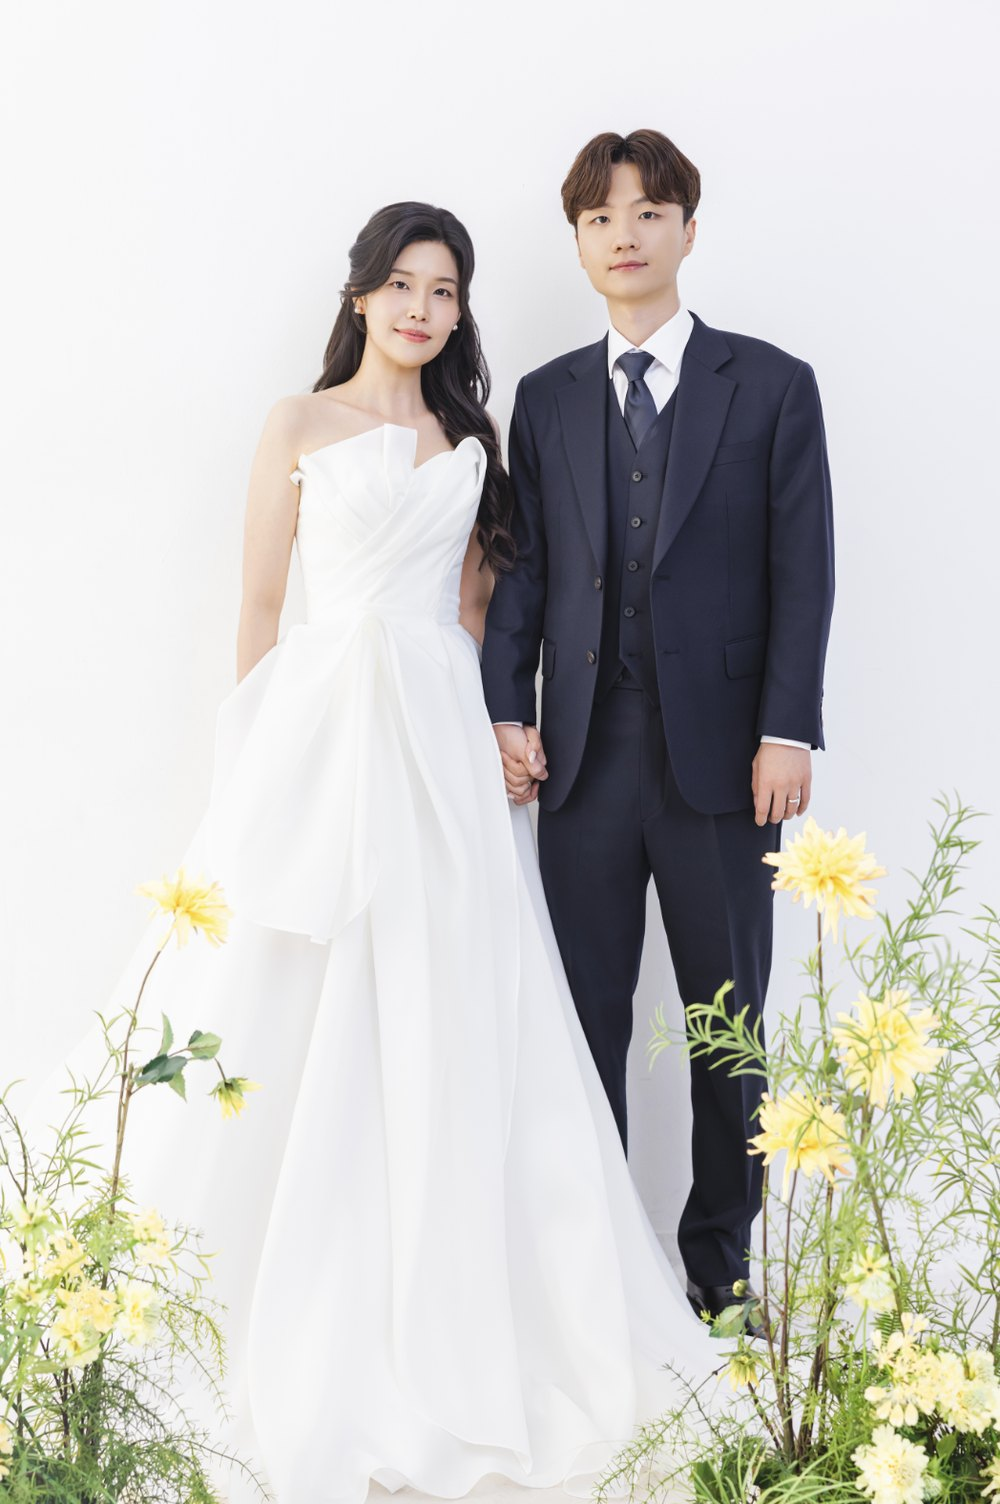
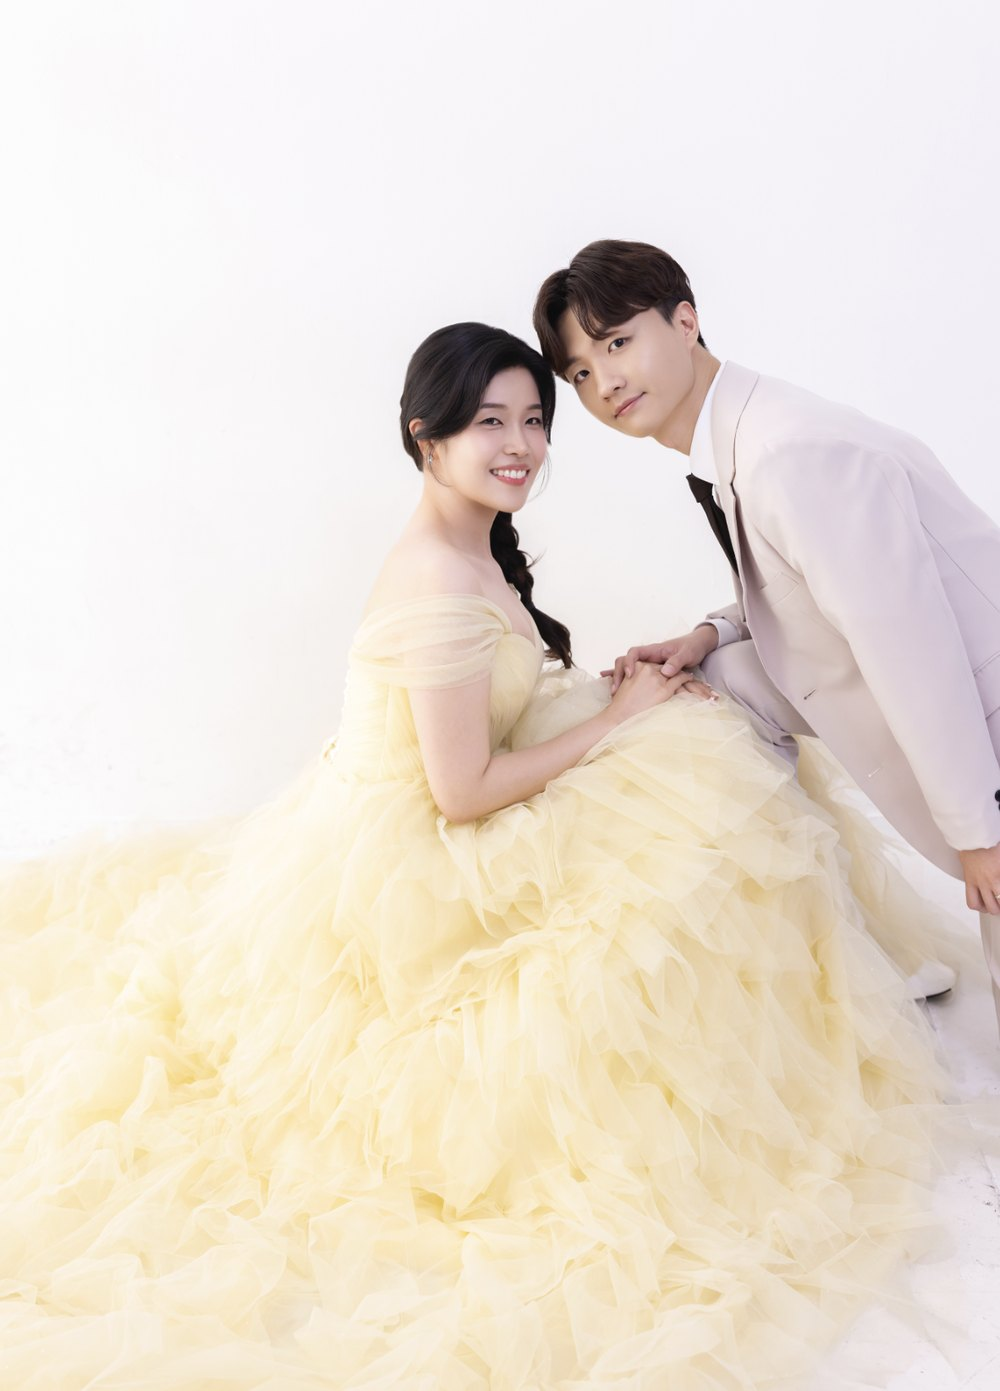
Cover: full-height photo with overlaid text (bride's reference), ivory-suit shot
- 표지를 화면 높이 사진 + 어두운 그라데이션 + 얇은 안쪽 테두리 + 흰 글자 구성으로
- 표지 사진을 아이보리 수트 컷으로: 흰 드레스/케이크 컷은 글자와 충돌, 이 컷만 얼굴·글자 모두 살아남
- og.jpg 도 같은 사진으로 재생성

diff --git a/index.html b/index.html
@@ -85,13 +85,33 @@
     border-radius:3px;padding:1px 7px;color:#8a6d1f;font-size:13px;line-height:1.5;
   }
 
-  /* ── 표지 ───────────────────────────────────────────────── */
-  .cover{padding:0 0 44px}
-  .cover .caption{padding:34px var(--gutter) 0;text-align:center}
-  .cover h1{font-size:26px;line-height:1.35;letter-spacing:.06em}
-  .cover .amp{display:block;font-family:var(--serif);font-size:12px;color:var(--accent);letter-spacing:.12em;margin:4px 0 6px}
-  .cover .tick{width:1px;height:24px;background:var(--line-2);margin:22px auto 18px}
-  .cover .when{font-size:14px;line-height:1.75;color:var(--ink-2)}
+  /* ── 표지 (사진 위에 글자) ─────────────────────────────────
+     화면 높이만큼 사진을 깔고 살짝 어둡게 한 뒤 글자를 얹습니다.
+     svh: 모바일 주소창을 뺀 실제 보이는 높이. 미지원 브라우저는 vh 로 대체. */
+  .cover{
+    position:relative;height:100vh;height:100svh;min-height:560px;max-height:920px;
+    overflow:hidden;background:#1b1916;color:#fff;text-align:center;
+  }
+  .cover .photo{position:absolute;inset:0}
+  .cover .photo img{width:100%;height:100%;object-fit:cover;object-position:50% 28%}
+  .cover .shade{
+    position:absolute;inset:0;
+    background:linear-gradient(180deg,rgba(0,0,0,.30) 0%,rgba(0,0,0,.14) 38%,rgba(0,0,0,.22) 62%,rgba(0,0,0,.58) 100%);
+  }
+  .cover .frame{position:absolute;inset:14px;border:1px solid rgba(255,255,255,.5);pointer-events:none}
+  .cover .caption{
+    position:absolute;inset:0;display:flex;flex-direction:column;align-items:center;justify-content:center;
+    padding:16vh 32px 0;text-shadow:0 1px 14px rgba(0,0,0,.45);   /* 이름이 얼굴·어깨가 아닌 드레스 위에 오도록 */
+  }
+  .cover .kicker{font-size:10.5px;font-weight:500;letter-spacing:.4em;text-transform:uppercase;opacity:.92}
+  .cover h1{font-size:28px;line-height:1.3;letter-spacing:.14em;margin-top:26px;color:#fff}
+  .cover .amp{display:block;font-family:var(--serif);font-size:15px;line-height:1;margin:14px 0;opacity:.85}
+  .cover .when{
+    position:absolute;left:0;right:0;bottom:70px;padding:0 24px;
+    font-size:14px;line-height:1.9;letter-spacing:.02em;text-shadow:0 1px 10px rgba(0,0,0,.5);
+  }
+  .cover .tick{position:absolute;left:50%;bottom:24px;width:1px;height:30px;background:rgba(255,255,255,.7)}
+  .greeting{padding-top:56px}
 
   /* ── 인사말 ─────────────────────────────────────────────── */
   .greeting h2{margin-bottom:22px}
@@ -198,19 +218,22 @@
 
   <!-- ══════════ 표지 ══════════ -->
   <header class="cover">
-    <div class="noSave">
+    <div class="photo noSave">
       <img src="assets/cover.jpg" alt="신랑 이수영, 신부 이정은" draggable="false">
     </div>
+    <div class="shade"></div>
+    <div class="frame"></div>
     <div class="caption">
+      <p class="kicker">The Marriage of</p>
       <h1>이수영</h1>
-      <span class="amp">그리고</span>
+      <span class="amp">&amp;</span>
       <h1>이정은</h1>
-      <div class="tick"></div>
-      <p class="when">
-        2026년 12월 12일 토요일 오후 4시<br>
-        세인트메리엘 1층 메리엘홀
-      </p>
     </div>
+    <p class="when">
+      2026년 12월 12일 토요일 오후 4시<br>
+      세인트메리엘 1층 메리엘홀
+    </p>
+    <div class="tick"></div>
   </header>
 
   <!-- ══════════ 인사말 ══════════ -->

diff --git a/build_assets.py b/build_assets.py
@@ -51,7 +51,7 @@ ORDER = [
     (A("_08"), "가든 - 신부"),
 ]
 
-COVER = A("_02")          # 표지
+COVER = B("_02")          # 표지 — 아이보리 수트 미소 컷 (글자 얹기에 가장 적합, 신부측 "캐쥬얼" 의견 반영)
 MAP_PDF = os.path.join(SRC, "[세인트 메리엘] 청첩장 약도 (1).pdf")
 
 

diff --git a/README.md b/README.md
@@ -33,6 +33,9 @@ python -m http.server 8137
 
 ## 사진 교체 / 추가
 
+표지는 화면 전체 높이 사진 위에 글자를 얹는 구성이라, **얼굴 위쪽에 여백이 있고 아래쪽이 단조로운 사진**이 맞습니다.
+표지 사진은 `build_assets.py` 의 `COVER` 한 줄로 바꿉니다 (카카오톡 미리보기 `og.jpg` 도 같이 재생성됨).
+
 원본은 `imgs/` 에 두고, **`imgs/` 는 `.gitignore` 로 제외돼 있습니다.**
 public 레포라서 원본을 커밋하면 원본 해상도가 URL로 공개되고 아래 확대 방지가 무의미해집니다.
 
